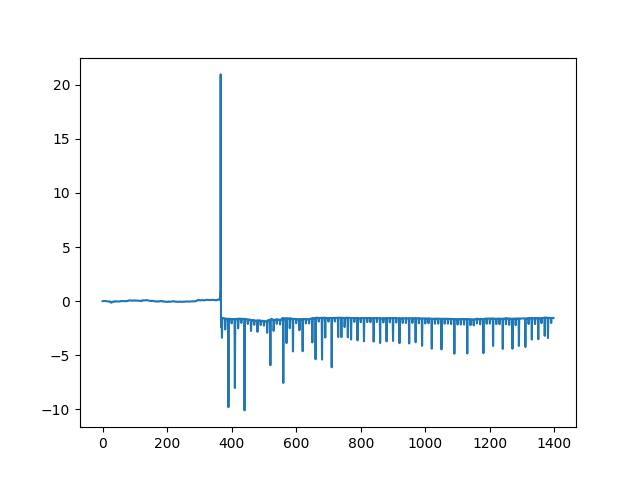
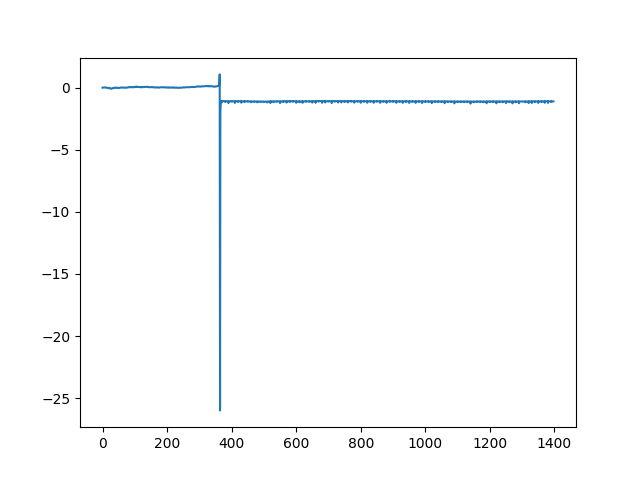
一些小改动，止盈止损还是有问题，要重新设计

diff --git a/MonteCarlo.py b/MonteCarlo.py
@@ -9,26 +9,28 @@ import matplotlib.pyplot as plt
 import etfdata
     
     
+#此函数作废，重写
 '''执行一次交易模拟
 输入的参数
-cost 每次投入金额
+cost_pertime 每次投入金额
 time 交易周期的天数
 freq 交易频率，几天交易一次
 df_300, df_nas,分别为两个定投的etf的实盘成交数据
 返回值为一个DataFrame，包含每个交易日的成本，收益，收益率等数据
 '''
-def work(cost, time, freq, df_300, df_nas):
+def work2(cost_pertime, time, freq, df_300, df_nas):
     #计算交易次数
     tradetimes = int(time/freq)
     #print(tradetimes)
-    #计算每次交易的金额
-    money = cost
     #print(money)
     #手续费比率
     fee_rate = 0.0003
     #把每次交易金额均分为两部分，分别买两个etf，如果钱不够交易，留到下次
-    money_300 = money/2.0
-    money_nas = money/2.0
+    money_300 = cost_pertime/2.0
+    money_nas = cost_pertime/2.0
+    #下面两个是每次变动的成本
+    m_300 = money_300
+    m_nas = money_nas
     #开始模拟前定义相关变量
     cost = [] #投入的总成本
     cost3 = [] #买300etf的成本
@@ -53,11 +55,12 @@ def work(cost, time, freq, df_300, df_nas):
     
     #开始模拟
     j = 0
+    t = 0 #交易次数
     for i in range(time):
         if j == 0:   #交易
             #计算可以买的股票数量
-            num_300 = int(money_300/df_300["close"][i]/100)*100
-            num_nas = int(money_nas/df_nas["close"][i]/100)*100
+            num_300 = int(m_300/df_300["close"][i]/100)*100
+            num_nas = int(m_nas/df_nas["close"][i]/100)*100
             if i == 0:
                 V3.append(num_300)
                 VN.append(num_nas)
@@ -70,25 +73,23 @@ def work(cost, time, freq, df_300, df_nas):
             if fee_300 < 0.1:
                 fee_300 = 0.1
             money_300_rem = money_300 - m3 - fee_300
-            money_300 += money_300_rem
+            m_300 = m_300 + money_300_rem - m3 - fee_300
             mN = num_nas*df_nas["close"][i]
             fee_nas = mN*fee_rate
             if fee_nas < 0.1:
                 fee_nas = 0.1
             fee.append(fee_300 + fee_nas)
             money_nas_rem = money_nas - mN - fee_nas
-            money_nas += money_nas_rem
+            m_nas = m_nas + money_nas_rem - mN - fee_nas
             
+            print(i, m_300, m_nas)
             #计算总成本
-            total_cost = m3+fee_300+mN+fee_nas
-            if i == 0:
-                cost3.append(m3+fee_300)
-                costN.append(mN+fee_nas)
-                cost.append(cost3[i] + costN[i])
-            else:
-                cost3.append(cost3[i-1] + m3 + fee_300)
-                costN.append(costN[i-1] + mN + fee_nas)
-                cost.append(cost[i-1] + cost3[i] + costN[i])
+            #total_cost = m3+fee_300+mN+fee_nas
+            cost3.append(money_300*(t+1))
+            costN.append(money_nas*(t+1))
+            cost.append(cost_pertime*(t+1))
+            t += 1
+            print(i, cost3[i], costN[i], cost[i])
             #其它数据无论是否交易都要算，放最后
         else:    #不交易
             fee.append(0.0)
@@ -110,7 +111,8 @@ def work(cost, time, freq, df_300, df_nas):
         Rate3.append(Income3[i]/cost3[i])
         RateN.append(IncomeN[i]/costN[i])
         Rate.append(Income[i]/cost[i])
-        print(i, Income3[i], IncomeN[i], Income[i], Rate3[i], RateN[i], Rate[i])
+        print(Total3[i], TotalN[i], Total[i])
+        #print(i, Income3[i], IncomeN[i], Income[i], Rate3[i], RateN[i], Rate[i])
         
     data = pd.DataFrame(
     {
@@ -122,6 +124,228 @@ def work(cost, time, freq, df_300, df_nas):
     }
     )
     return data
+    
+    
+'''执行一次交易模拟
+输入的参数
+cost_pertime 每次投入金额
+time 交易周期的天数
+freq 交易频率，几天交易一次
+df_300, df_nas,分别为两个定投的etf的实盘成交数据
+返回值为一个DataFrame，包含每个交易日的成本，收益，收益率等数据
+bCut,是否止盈止损
+up,止盈点
+down,止损点
+'''
+def work(cost_pertime, time, freq, df_300, df_nas, bCut, up, down):
+    #计算交易次数
+    tradetimes = int(time/freq)
+    #手续费费率
+    fee_rate = 0.0003
+    #买每个etf的金额为总投资额的一半
+    money_per_etf = cost_pertime/2.0
+    #每次实际投资金额
+    money_300 = money_per_etf
+    money_nas = money_per_etf
+    #每次剩下的钱，累加到下一次
+    money_300_rem = 0
+    money_nas_rem = 0
+    
+    #定义变量
+    #成本
+    cost300 = []
+    costNas = []
+    cost = []
+    #手续费
+    fee300 = []
+    feeNas = []
+    fee = []
+    #持仓量
+    stack300 = []
+    stackNas = []
+    stack = []
+    #市值
+    value300 = []
+    valueNas = []
+    value = []
+    #持仓收益
+    income = []
+    #持仓收益率
+    rate = []
+    
+    #执行模拟
+    j = 0
+    #保存最大最小收益率
+    minRate = 0.0
+    maxRate = 0.0
+    bCutUp = False #下次是否止盈
+    bCutDown = False #下次是否止损
+    #止盈止损卖出股票得到的钱
+    money_cut_300 = 0.0
+    money_cut_nas = 0.0
+    #是否进行了止盈止损操作
+    bUp = False
+    bDown = False
+    
+    for i in range(times):
+        #进行交易，如果在止盈止损期间，暂停交易
+        if j == 0 and ((bCutUp == False and bCutDown == False) or bCut == False):
+            #先计算能投入的金额
+            #如果进行过止盈止损，把卖出得到的钱加上
+            money300 = money_300 + money_300_rem
+            moneyNas = money_nas + money_nas_rem
+            if bUp == True or bDown == True:
+                money300 += money_cut_300
+                moneyNas += money_cut_nas
+                money_cut_300 = 0.0
+                money_cut_nas = 0.0
+                bUp = False
+                bDown = False
+            #计算买入数量
+            num300 = TradeNumber(money300, df_300["close"][i])
+            numNas = TradeNumber(moneyNas, df_nas["close"][i])
+            if i == 0:
+                stack300.append(num300)
+                stackNas.append(numNas)
+            else:
+                stack300.append(stack300[i-1] + num300)
+                stackNas.append(stackNas[i-1] + numNas)
+            #print(i, num300, numNas)
+            #计算买入成本
+            cost_300 = TradeCost(num300, df_300["close"][i])
+            fee_300 = TradeFee(cost_300, fee_rate)
+            cost_nas = TradeCost(numNas, df_nas["close"][i])
+            fee_nas = TradeFee(cost_nas, fee_rate)
+            if i == 0:
+                fee.append(fee_300 + fee_nas)
+                cost300.append(cost_300 + fee_300)
+                costNas.append(cost_nas + fee_nas)
+            else:
+                fee.append(fee[i-1] + fee_300 + fee_nas)
+                cost300.append(cost300[i-1] + cost_300 + fee_300)
+                costNas.append(costNas[i-1] + cost_nas + fee_nas)
+            cost.append(cost300[i] + costNas[i])
+            money_300_rem = money300 - cost_300 - fee_300
+            money_nas_rem = moneyNas - cost_nas - fee_nas
+        else:        #不进行交易
+            stack300.append(stack300[i-1])
+            stackNas.append(stackNas[i-1])
+            cost300.append(cost300[i-1])
+            costNas.append(costNas[i-1])
+            cost.append(cost[i-1])
+            fee.append(fee[i-1])
+        j += 1
+        if j == freq:
+            j = 0
+        #不管是否交易都要计算的数据
+        #计算市值
+        value300.append(stack300[i] * df_300["close"][i])
+        valueNas.append(stackNas[i] * df_nas["close"][i])
+        value.append(value300[i] + valueNas[i])
+        #计算收益
+        income.append(value[i] - cost[i])
+        #计算收益率
+        rate.append(income[i]/cost[i])
+        
+        #进行止盈止损操作
+        if bCut == True:
+            print(i, rate[i],  stack300[i], stackNas[i], minRate, maxRate, bCutUp, bCutDown)
+            #保存最大最小收益率
+            if bUp == False and bDown == False:
+                minRate = min(rate)
+                maxRate = max(rate)
+            #判断是否触发止盈止损操作
+            if rate[i] > up:
+                bCutUp = True
+                bCutDown = False
+            elif rate[i] < down:
+                bCutUp = False
+                bCutDown = True
+            else:
+                bCutUp = False
+                bCutDown = False
+            
+            #先判断进行止盈止损操作
+            if i != 0 and (bCutUp == True or bCutDown == True):
+                #进行止盈止损，每次卖存量的一半
+                #300etf
+                sellNumber300 = int(stack300[i]/200)*100
+                if sellNumber300 < 100:
+                    sellNumber300 = 0
+                stack300[i] -= sellNumber300
+                sellmoney300 = TradeCost(sellNumber300, df_300["close"][i])
+                sellfee300 = TradeFee(sellmoney300, fee_rate)
+                money_cut_300 = sellmoney300 + sellfee300
+                value300[i] -=  money_cut_300
+                cost300[i] -= money_cut_300
+                #纳指etf
+                sellNumberNas = int(stackNas[i]/200)*100
+                if sellNumberNas < 100:
+                    sellNumberNas = 0
+                stackNas[i] -= sellNumberNas
+                sellmoneyNas = TradeCost(sellNumberNas, df_nas["close"][i])
+                sellfeeNas = TradeFee(sellmoneyNas, fee_rate)
+                money_cut_Nas = sellmoneyNas + sellfeeNas
+                valueNas[i] -=  money_cut_Nas
+                costNas[i] -= money_cut_Nas
+                #计算合并数据
+                fee[i] += sellfee300 + sellfeeNas
+                value[i] = value300[i] + valueNas[i]
+                cost[i] = cost300[i] + costNas[i]
+                income[i] = value[i] - cost[i]
+                rate[i] = income[i]/cost[i]
+                if bCutUp == True:
+                    #设置止盈操作标志
+                    bUp = True
+                    minRate += up #将基线提高，看是否还要止盈的。
+                    bCutUp = False
+                    #print(i, "止盈")
+                elif bCutDown == True:
+                    #设置止损标志
+                    bDown = True
+                    maxRate -= down #将基线降低，看是否需要止损的
+                    bCutDown = False
+                    #print(i, "止损")
+                #print(i, bUp, bDown, rate[i]-minRate, maxRate-rate[i], rate[i], money_cut_300, money_cut_nas)
+                    
+    
+    #形成返回数据
+    data = FormResult(cost, fee, value, income, rate)
+    return data
+    
+    
+#形成返回数据
+def FormResult(cost, fee, value, income, rate):
+    data = pd.DataFrame(
+    {
+    "成本":cost,
+    "手续费":fee,
+    "市值":value,
+    "收益":income,
+    "收益率":rate
+    }
+    )
+    return data
+    
+
+#根据可用的资金和收盘价，计算可以买的股票数量
+def TradeNumber(money, price):
+    num = int(money/price/100)*100
+    return num
+    
+    
+#根据成交量和成交价计算成本，不含手续费
+def TradeCost(number, price):
+    cost = number*price
+    return cost
+    
+    
+#根据交易金额,费率计算手续费
+def TradeFee(money, rate):
+    fee = money * rate
+    if fee < 0.1:
+        fee = 0.1
+    return fee
     
     
 #按不同交易频率进行交易
@@ -215,12 +439,10 @@ if __name__=="__main__":
     length2 = len(df_nas)
     df_300 = df_300.loc[0:length1, ["date", "close"]]
     df_nas = df_nas.loc[0:length2, ["date", "close"]]
-    print(len(df_300), len(df_nas))
     #试试用实盘的策略的模拟结果
     freq = 10
     times = len(df_300)
-    data = work(1000, times, freq, df_300, df_nas)
-    print(data)
+    data = work(1000, times, freq, df_300, df_nas, True, 0.15, -0.1)
     #计算指标
     #先处理基准指标，剔除没交易的日期的数据
     #df_300 = df_300[df_300["date"].isin(data.日期.values)]
@@ -235,16 +457,10 @@ if __name__=="__main__":
     "数据":data["收益率"].values
     }
     )
-    print(df_base.head(), len(df_base))
-    print(testdata.head())
     result = index.index(testdata, df_base, 0.03)
     print(result)
     #画图看看吧。
     fig = plt.figure()
     plt.plot(testdata[("数据")])
     fig.savefig("模拟结果.png")
-    
-    
-    
-    
     
